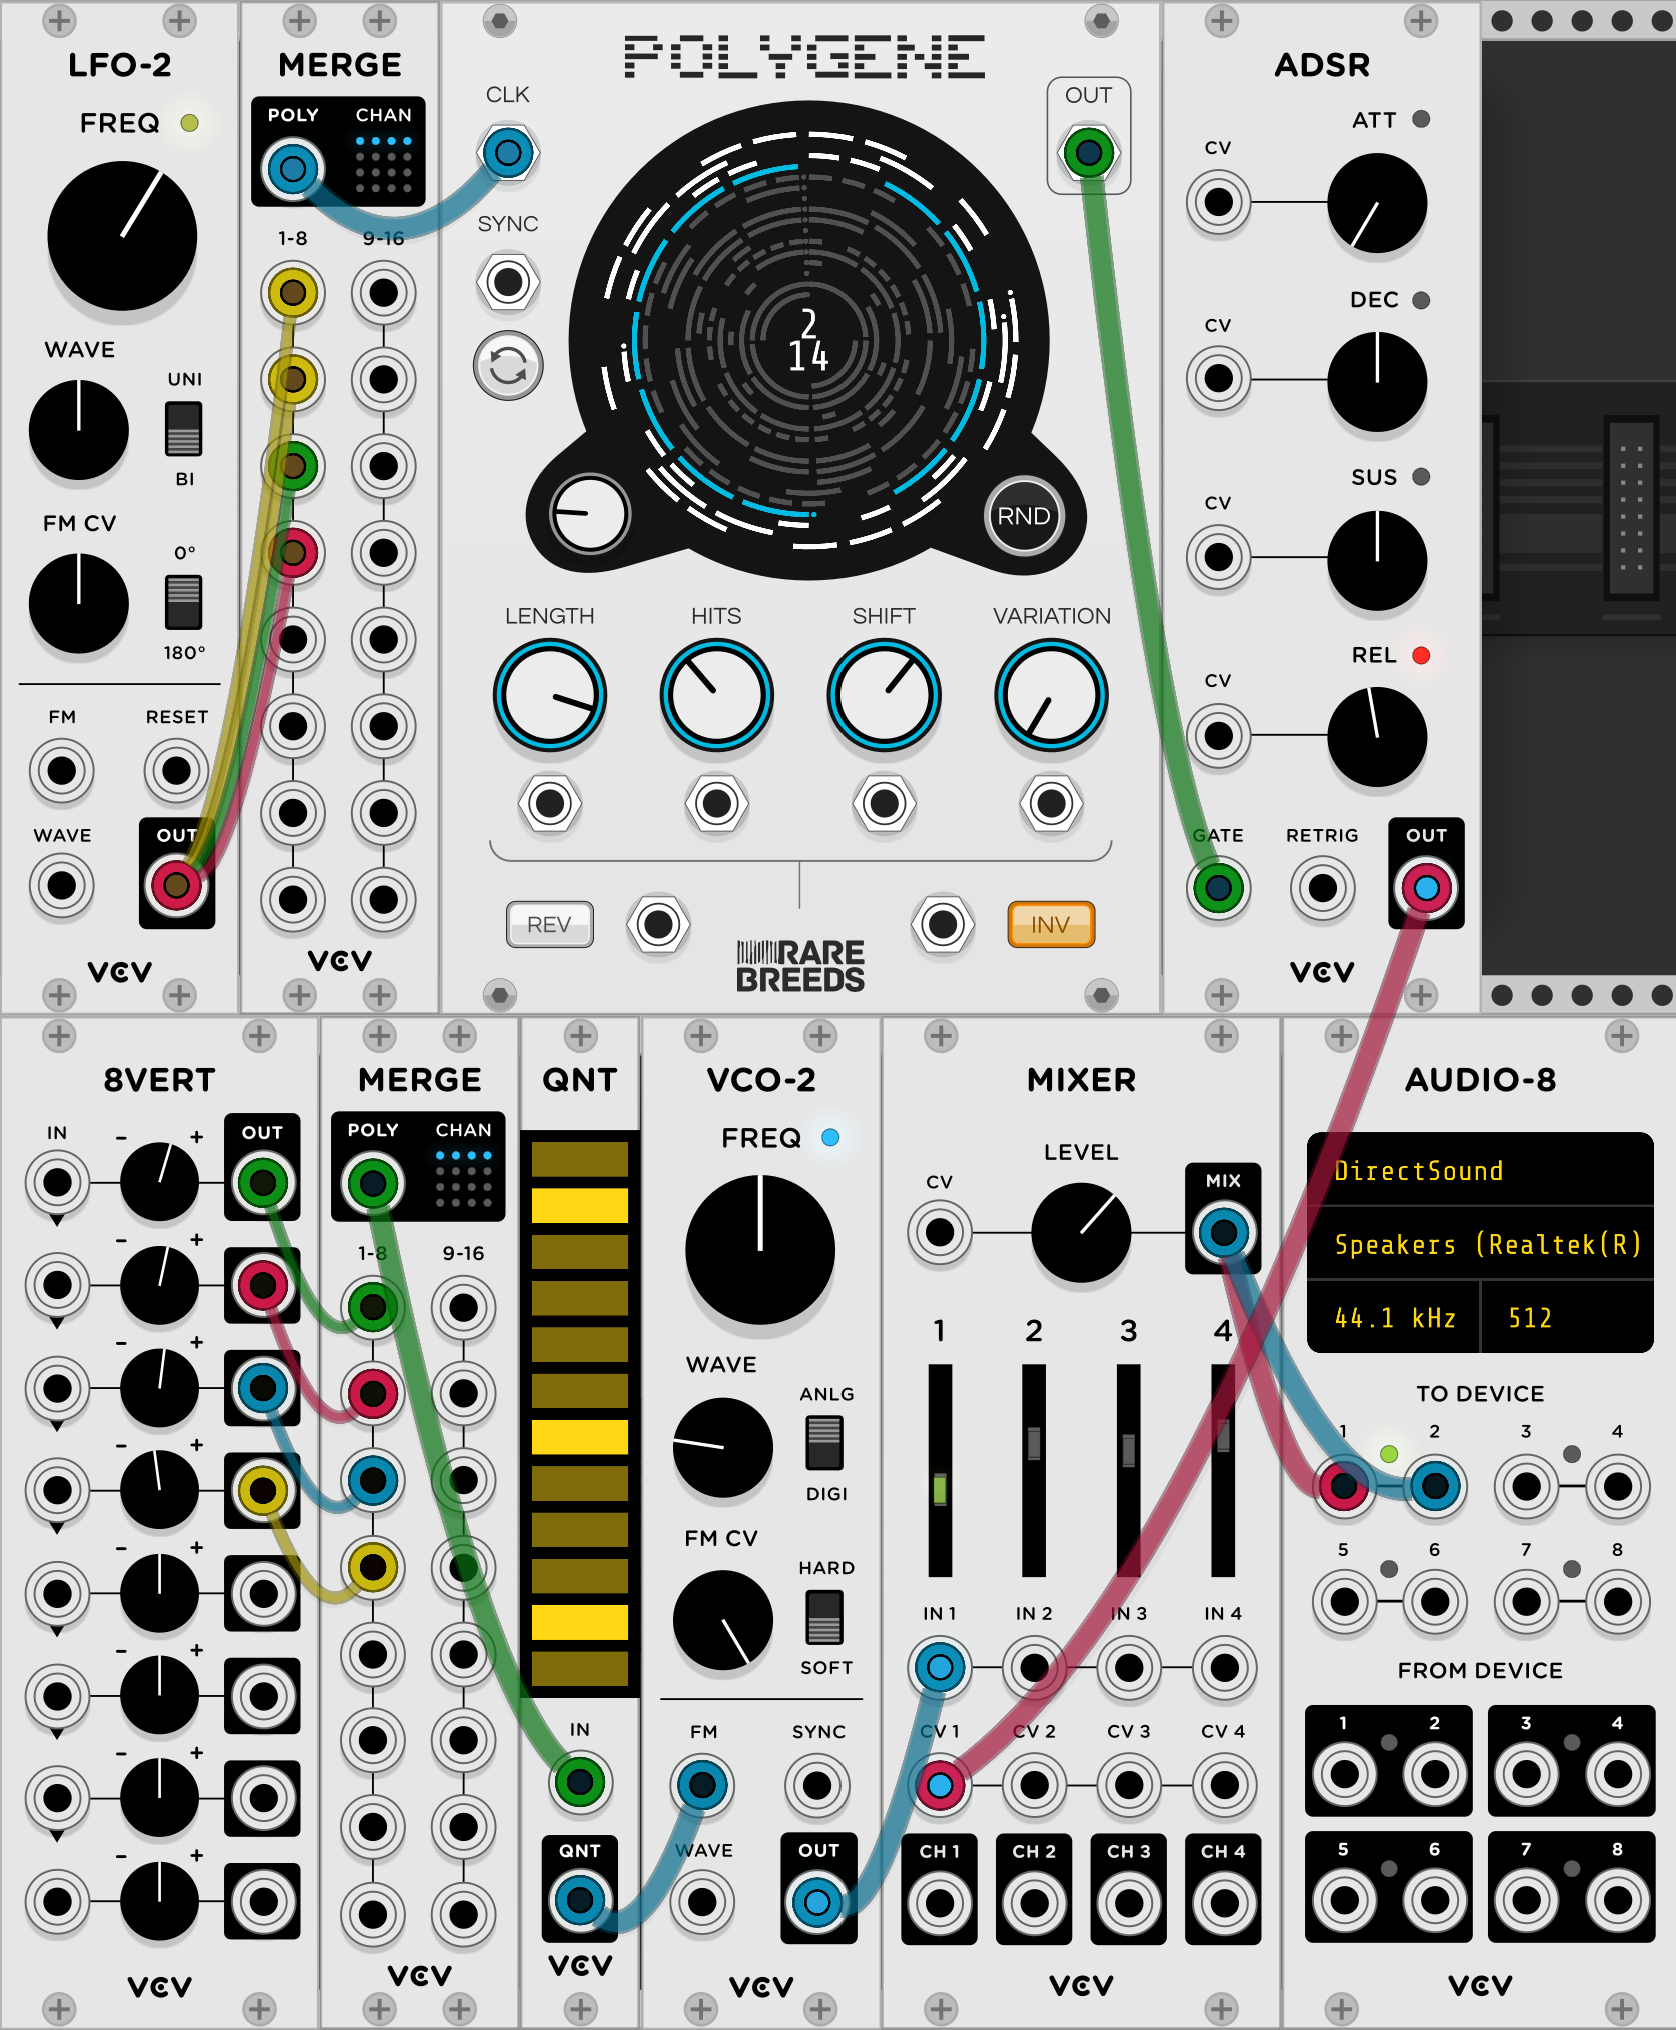
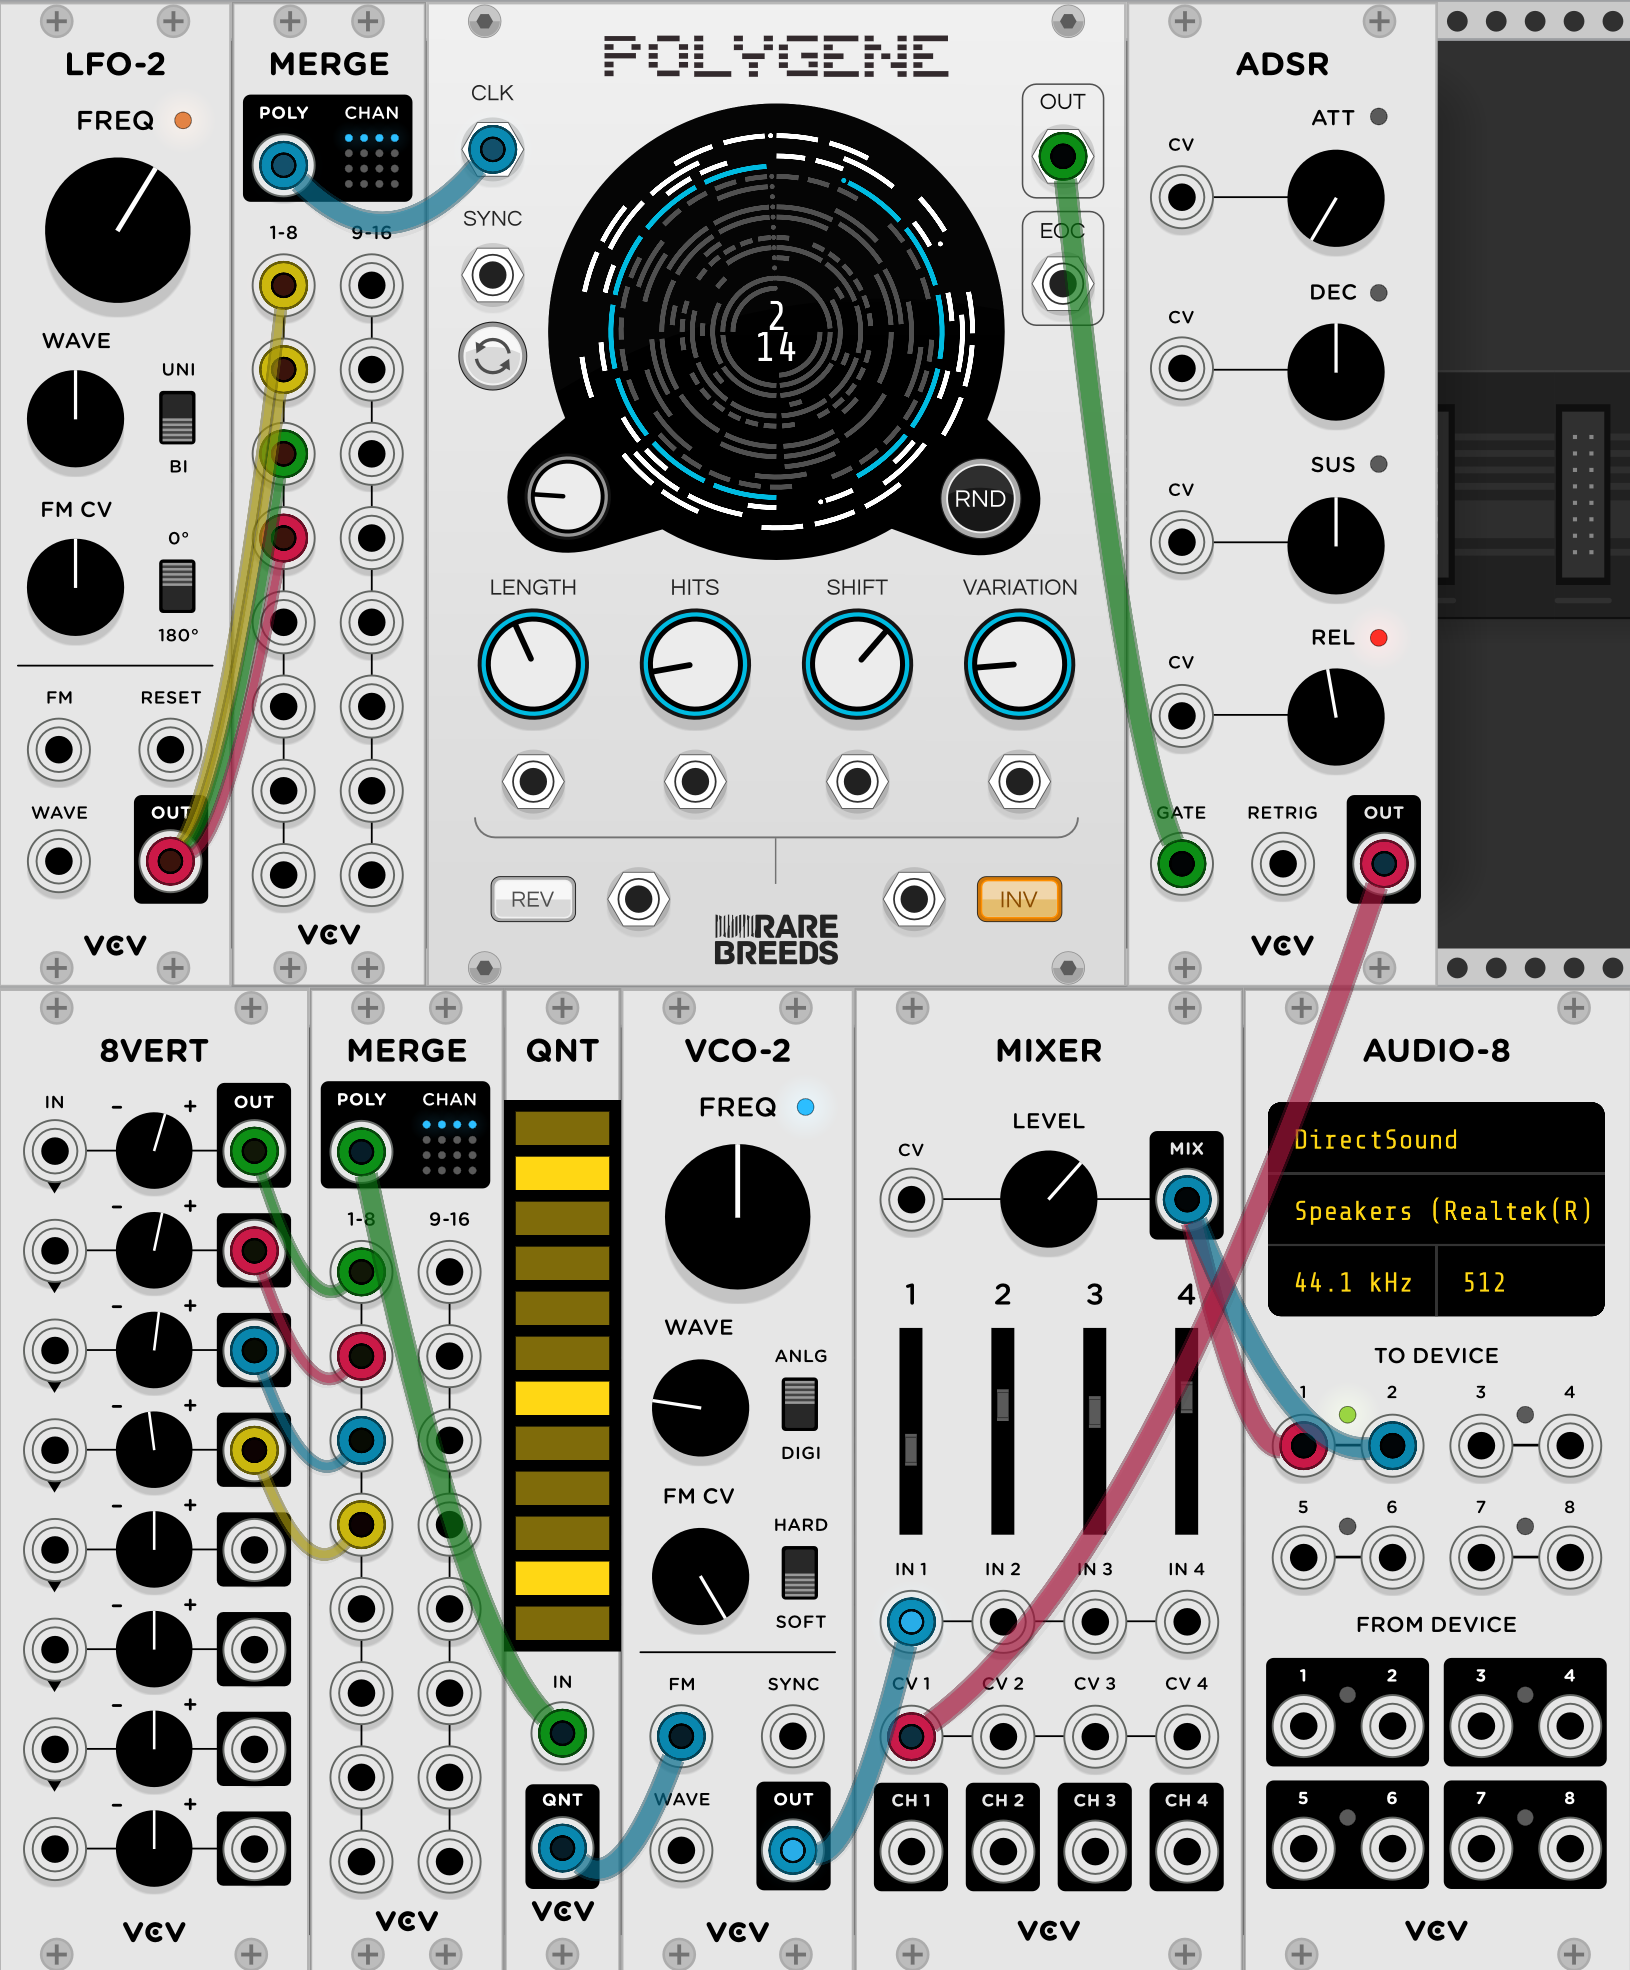
Deployed 5a965c5 with MkDocs version: 1.0.4

diff --git a/index.html b/index.html
@@ -113,27 +113,35 @@
 <li>Sync input for syncing the start of the rhythm with another signal</li>
 <li>Shift knob for selecting the initial beat of the rhythm</li>
 <li>Lots of CV controllable parameters</li>
+<li>End of cycle (EOC) pulse (configurable to trigger on repeat, first or last beat)</li>
 </ul>
 <h3 id="panel">Panel</h3>
 <p><img alt="Controls" src="img/controls.png" /></p>
 <p><img alt="Display" src="img/display.png" /></p>
 <h3 id="out-output">Out : Output</h3>
-<p>A pulse is output when an on-beat (hit) is clocked. 0-10V Unipolar CV 1ms pulse duration.</p>
-<h3 id="clk-input">Clk : Input</h3>
-<p>A rising edge advances the current beat. Schmitt triggered.</p>
-<h3 id="sync-input">Sync : Input</h3>
-<p>Resets the current beat to the first beat of the rhythm which is always 12 o'clock on the display. Schmitt triggered.</p>
-<p>This input is synchronous, the sync is only applied if a rising edge of Clk happens whilst sync is high.</p>
+<p>A pulse is output when an on-beat (hit) is clocked.</p>
+<p>0-10V Unipolar CV 1ms pulse duration.</p>
+<h3 id="eoc-output">EOC : Output</h3>
+<p>A pulse is output when a new cycle starts.</p>
+<p>There's 3 behaviour options available when right clicking the module:
+ - On Repeat - On the first beat of the new cycle, only if a cycle has been completed.
+ - First - On the first beat of the cycle, even if a cycle hasn't been completed.
+ - Last - On the last beat of the cycle.</p>
+<p>0-10V Unipolar CV 1ms pulse duration.</p>
+<h3 id="clk-input-rising-edge-sensitive-schmitt-triggered">Clk : Input, Rising Edge Sensitive, Schmitt triggered</h3>
+<p>A rising edge advances the current beat.</p>
+<h3 id="sync-input-rising-edge-sensitive-schmitt-triggered">Sync : Input, Rising Edge Sensitive, Schmitt triggered</h3>
+<p>A rising edge resets the current beat to the first beat of the rhythm which is always 12 o'clock on the display.</p>
 <h3 id="length-input">Length : Input</h3>
 <p>The number of beats in the rhythm. Integer range between 1 to 32 inclusive.</p>
 <h3 id="hits-input">Hits : Input</h3>
 <p>The number of on-beats in the rhythm, or the density. Integer range between 0 and the current Length inclusive.</p>
 <h3 id="shift-input">Shift : Input</h3>
-<p>Sets the beat in the rhythm to start from. A sync pulse will set the current beat to this number of beats before beat 0. Integer range between 0 and the current Length - 1 inclusive.
-Rotating this knob has the effect of rotating the start beat the same direction around the circle.</p>
-<h3 id="reverse-input">Reverse : Input</h3>
+<p>Sets the beat in the rhythm to start from. A sync pulse will set the current beat to this number of beats before beat 0. Integer range between 0 and the current Length - 1 inclusive.</p>
+<p>Rotating this knob has the effect of rotating the start beat the same direction around the circle.</p>
+<h3 id="reverse-input-level-sensitive-schmitt-triggered">Reverse : Input, Level Sensitive, Schmitt triggered</h3>
 <p>Sets the direction that the clock advances the beat. Clockwise when off, anticlockwise when on.</p>
-<h3 id="invert-input">Invert : Input</h3>
+<h3 id="invert-input-level-sensitive-schmitt-triggered">Invert : Input, Level Sensitive, Schmitt triggered</h3>
 <p>Inverts the Euclidean algorithm. When this switch is on on-beats become off-beats and off-beats become on-beats. Visually you can tell this is enabled by the on-beats being represented as empty circles rather than whole ones.</p>
 <p><img alt="Invert" src="img/invert.png" /></p>
 <h3 id="cv-input">CV : Input</h3>
@@ -156,13 +164,14 @@ Rotating this knob has the effect of rotating the start beat the same direction 
 <li>Sync button and CV input for syncing the start of the rhythm with another signal</li>
 <li>Shift knob for selecting the initial beat of the rhythm</li>
 <li>Lots of CV controllable parameters</li>
+<li>End of cycle (EOC) pulse (configurable to trigger on repeat, first or last beat)</li>
 </ul>
 <h3 id="panel_1">Panel</h3>
 <h3 id="clk-input-polyphonic-rising-edge-sensitive-schmitt-triggered">Clk : Input, Polyphonic, Rising Edge Sensitive, Schmitt Triggered</h3>
 <p>The number of active channels on this input sets the number of channels active on the output.</p>
 <p>A rising edge advances the current beat for that channel.</p>
 <h3 id="sync-input-polyphonic-rising-edge-sensitive-schmitt-triggered">Sync : Input, Polyphonic, Rising Edge Sensitive, Schmitt Triggered</h3>
-<p>A rising edge on a channel tells the current beat to reset to zero on the next rising clock edge for that channel.</p>
+<p>A rising edge on a channel resets the current beat to the first beat of the rhythm for that channel which is always 12 o'clock on the display.</p>
 <p>Pressing the sync button syncs all channels.</p>
 <h3 id="channel-knob-input">Channel Knob : Input</h3>
 <p>The channel knob selects the current active channel. The selected channel is highlighted on the display and is the channel that will be modified by any changes to the Length, Hits, Shift, Variation, Reverse or Invert manual controls.</p>
@@ -195,6 +204,14 @@ Rotating this knob has the effect of rotating the start beat the same direction 
 <h3 id="out-output-polyphonic">Out : Output, Polyphonic</h3>
 <p>A pulse is output when an on-beat (hit) is clocked for that channel.</p>
 <p>The number of output channels matches the number of channels active on the clock input.</p>
+<p>0-10V Unipolar CV 1ms pulse duration.</p>
+<h3 id="eoc-output-polyphonic">EOC : Output, Polyphonic</h3>
+<p>A pulse is output on each channel when a new cycle for that channel starts.</p>
+<p>The number of output channels matches the number of channels active on the clock input.</p>
+<p>There's 3 behaviour options available when right clicking the module:
+ - On Repeat - On the first beat of the new cycle, only if a cycle has been completed.
+ - First - On the first beat of the cycle, even if a cycle hasn't been completed.
+ - Last - On the last beat of the cycle.</p>
 <p>0-10V Unipolar CV 1ms pulse duration.</p>
               
             </div>
@@ -235,5 +252,5 @@ Rotating this knob has the effect of rotating the start beat the same direction 
 
 <!--
 MkDocs version : 1.0.4
-Build Date UTC : 2021-02-18 19:13:47
+Build Date UTC : 2021-02-27 10:56:53
 -->
